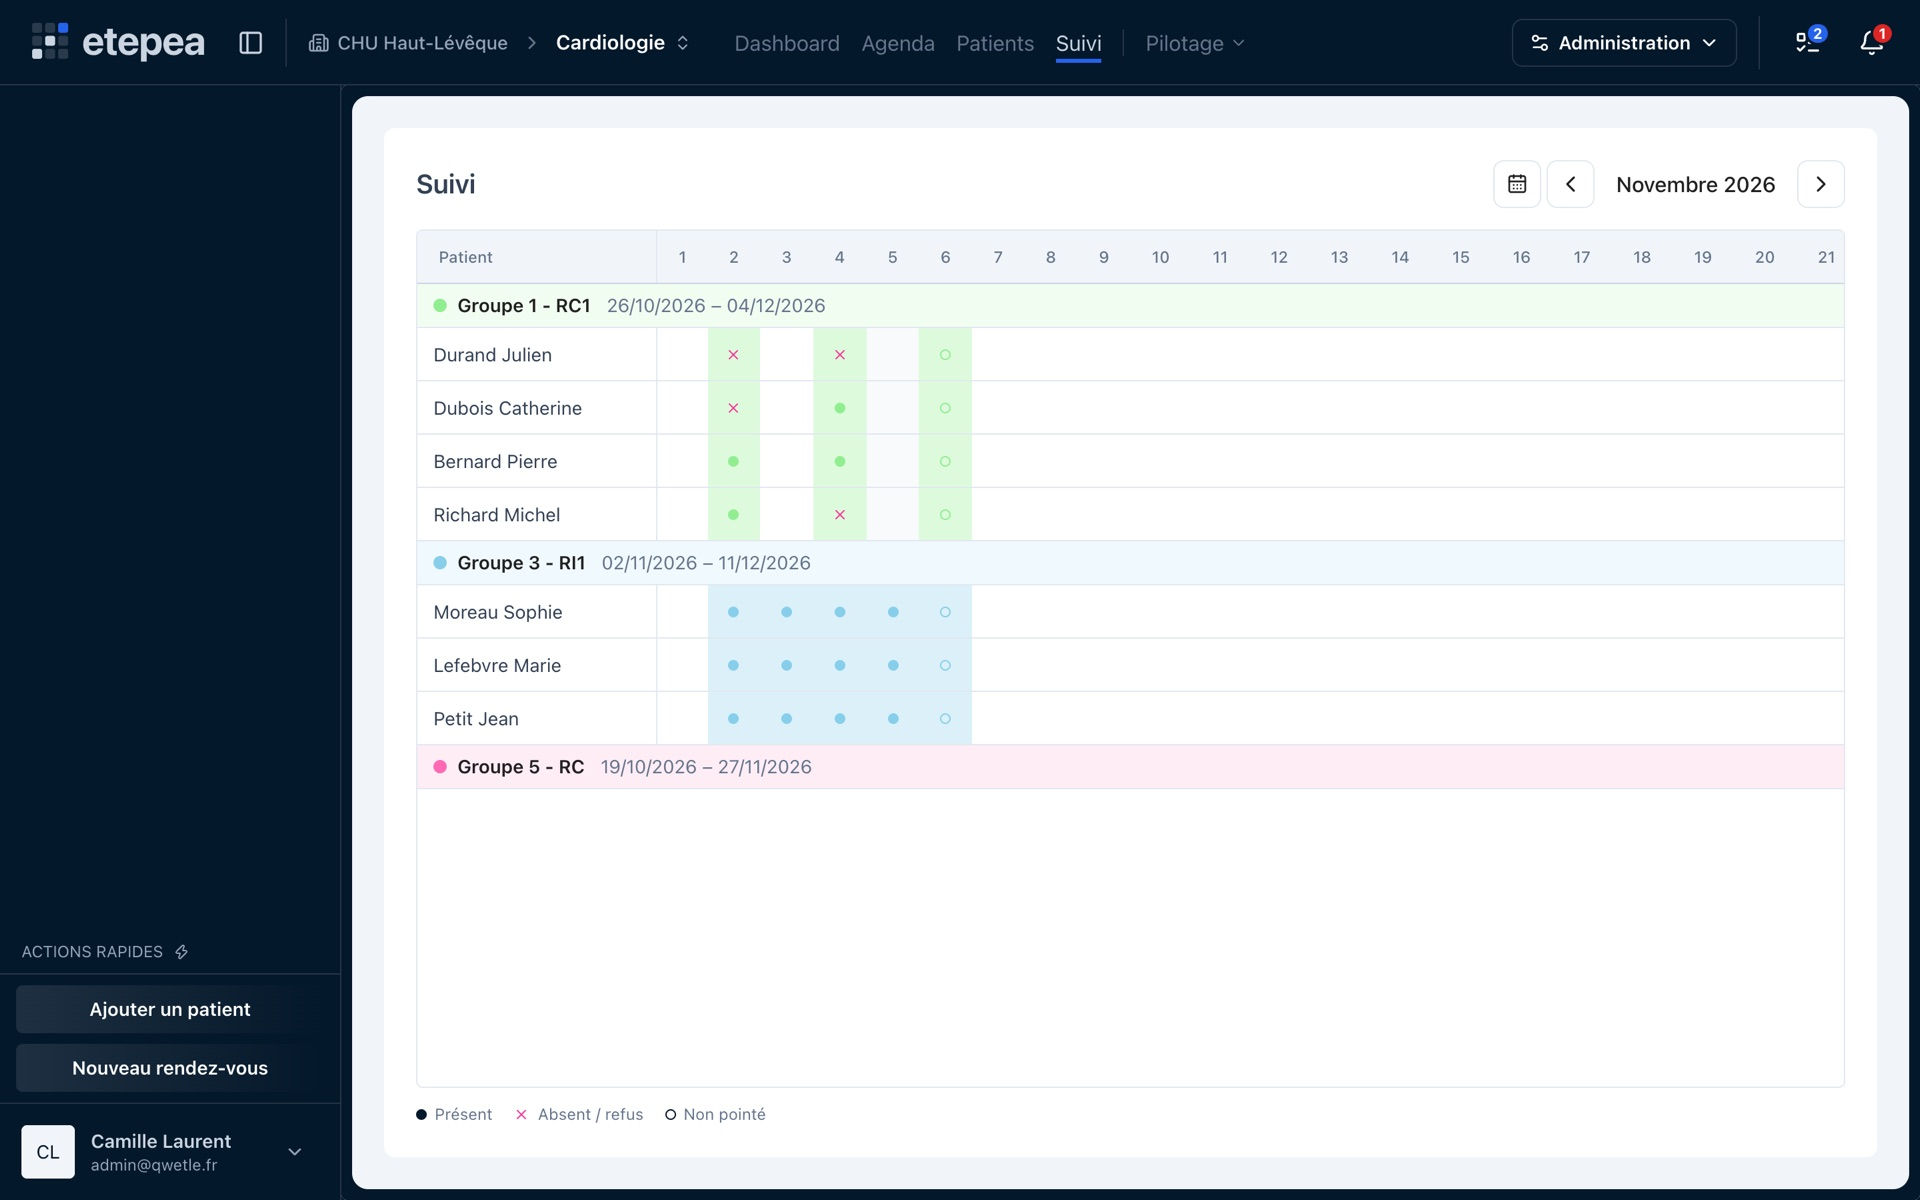
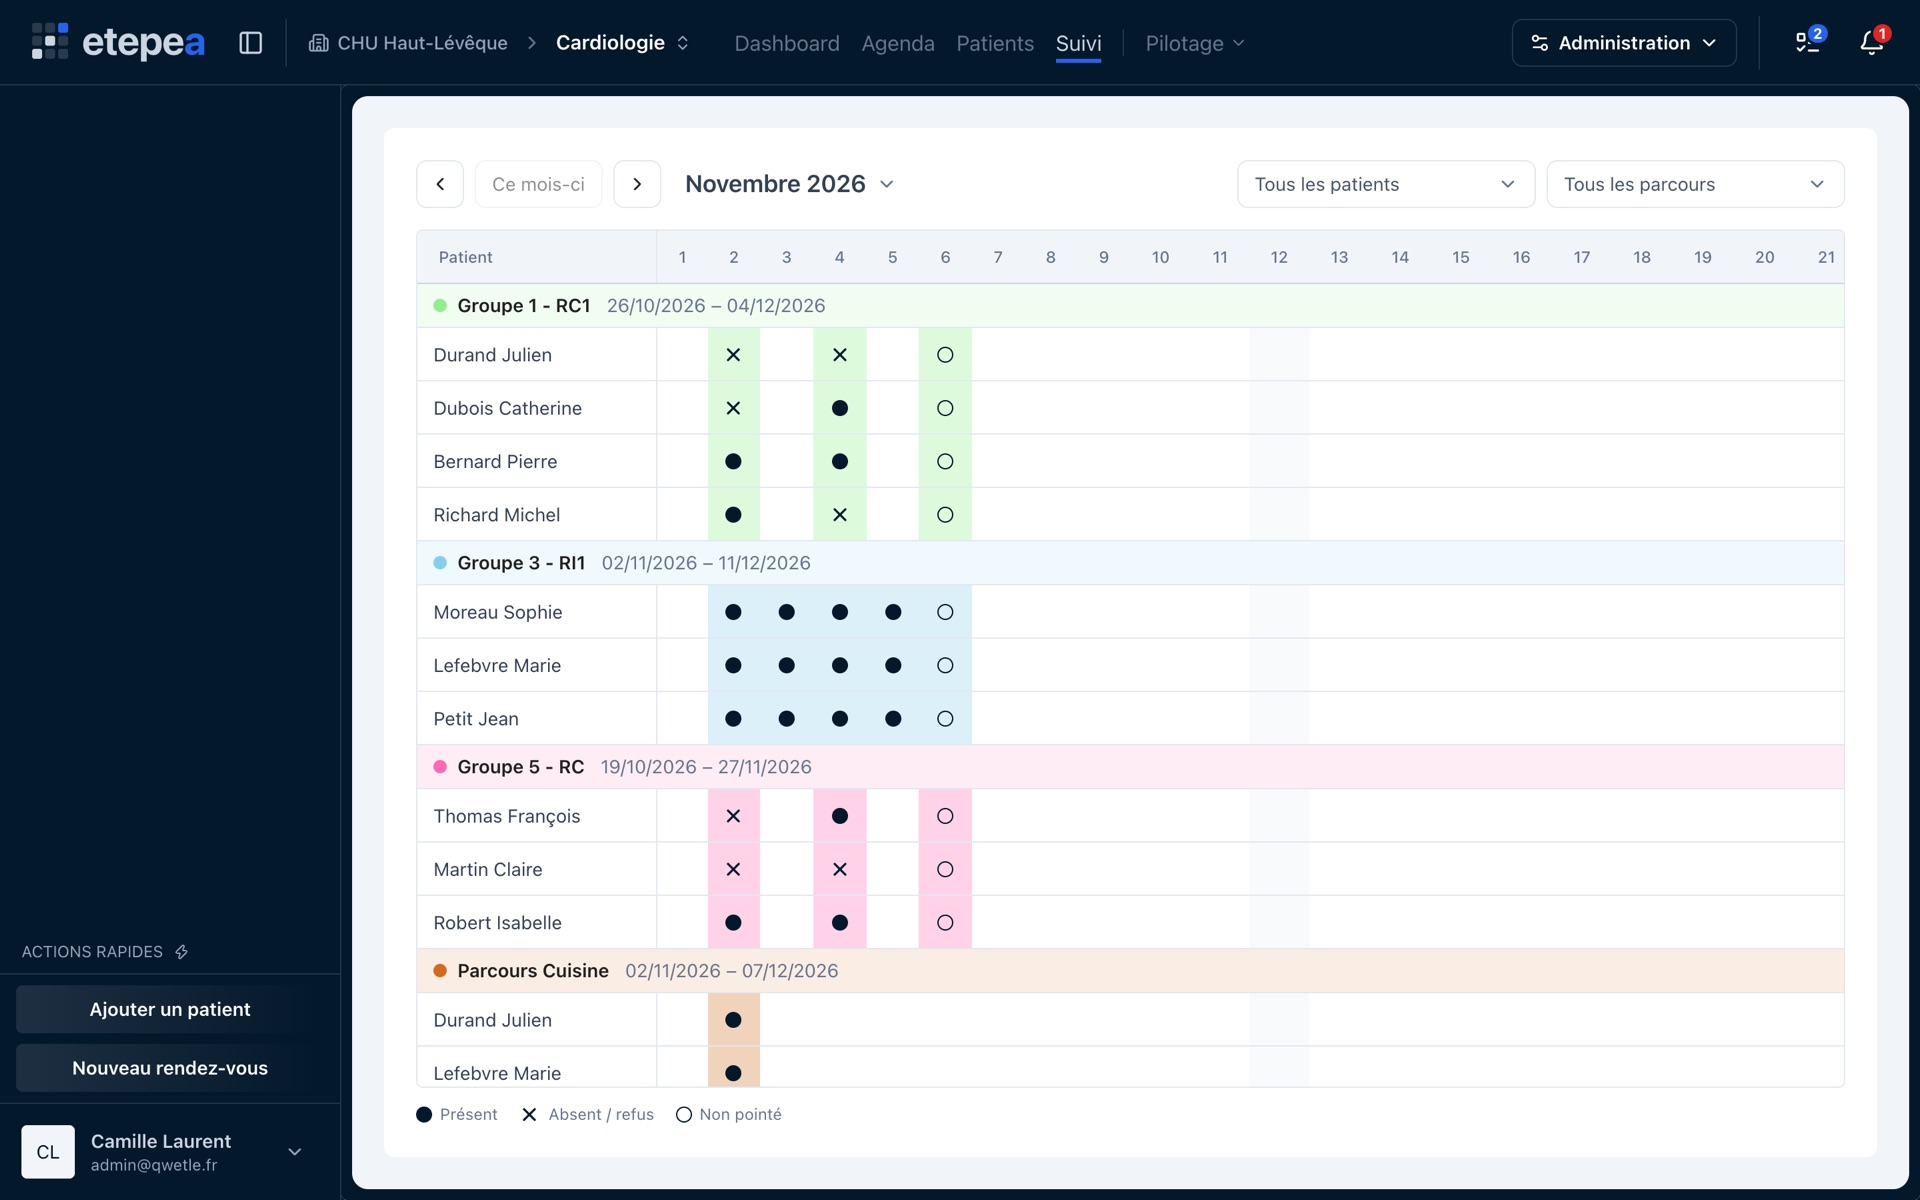
feat(site): captures refaites sur l'interface actuelle, textes sur le pointage, les parcours optionnels, l'export et l'invitation

diff --git a/site/src/content.ts b/site/src/content.ts
@@ -44,15 +44,15 @@ const fr = {
     cards: {
       planning: {
         title: "Planning annuel",
-        text: "Construisez la trame d'un parcours une fois, puis déroulez-la sur l'année. Duplication et déplacement en masse, semaines fermées, cycles de répétition.",
+        text: "Construisez la trame d'un parcours une fois, puis déroulez-la sur l'année. Duplication et déplacement en masse, semaines fermées, cycles de répétition, export par soignant ou par période.",
       },
       agenda: {
         title: "Agenda du jour",
-        text: "Patients attendus, présences, accompagnants et transmissions.",
+        text: "Patients attendus, places restantes, présences, accompagnants et transmissions.",
       },
       suivi: {
         title: "Suivi mensuel",
-        text: "La participation de chaque patient, lue d'un coup d'œil.",
+        text: "La participation de chaque patient, pointée d'un clic et lue d'un coup d'œil.",
       },
       diagnostic: {
         title: "Dossiers patients et diagnostic éducatif",
@@ -80,7 +80,7 @@ const fr = {
       },
       {
         name: "Séances",
-        text: "Le patient rejoint les séances collectives et individuelles du parcours, sans double saisie.",
+        text: "Le patient rejoint les séances de son parcours principal et de ses parcours optionnels, sans double saisie.",
         seed: "etepea-workshop",
       },
       {
@@ -104,7 +104,7 @@ const fr = {
       },
       {
         title: "Des rôles précis",
-        text: "Coordination, intervenants, secrétariat, lecture seule : chacun accède à ce dont il a besoin, et pas au-delà.",
+        text: "Comptes ouverts sur invitation uniquement. Coordination, intervenants, secrétariat, lecture seule : chacun accède à ce dont il a besoin, et pas au-delà.",
       },
       {
         title: "Conflits signalés",
@@ -177,15 +177,15 @@ const en: typeof fr = {
     cards: {
       planning: {
         title: "Yearly planning",
-        text: "Design a pathway once, then roll it out over the year. Bulk duplicate and move sessions, block closed weeks, set repeat cycles.",
+        text: "Design a pathway once, then roll it out over the year. Bulk duplicate and move sessions, block closed weeks, set repeat cycles, export by practitioner or period.",
       },
       agenda: {
         title: "Daily agenda",
-        text: "Expected patients, attendance, companions and handover notes.",
+        text: "Expected patients, remaining places, attendance, companions and handover notes.",
       },
       suivi: {
         title: "Monthly follow-up",
-        text: "Every patient's attendance, readable at a glance.",
+        text: "Every patient's attendance, checked in one click and readable at a glance.",
       },
       diagnostic: {
         title: "Patient records and educational assessment",
@@ -213,7 +213,7 @@ const en: typeof fr = {
       },
       {
         name: "Sessions",
-        text: "Patients join the pathway's group and individual sessions, with no double entry.",
+        text: "Patients join the sessions of their main pathway and optional pathways, with no double entry.",
         seed: "etepea-workshop",
       },
       {
@@ -237,7 +237,7 @@ const en: typeof fr = {
       },
       {
         title: "Precise roles",
-        text: "Coordinators, practitioners, front desk, read-only: everyone gets exactly what they need, nothing more.",
+        text: "Accounts by invitation only. Coordinators, practitioners, front desk, read-only: everyone gets exactly what they need, nothing more.",
       },
       {
         title: "Conflicts flagged",

diff --git a/site/src/App.tsx b/site/src/App.tsx
@@ -238,7 +238,7 @@ function Platform({ t }: { t: Copy }) {
           />
           <BentoCard
             src={IMAGES.agenda}
-            focus="70% 25%"
+            focus="78% 50%"
             zoom={1.9}
             {...c.agenda}
           />
